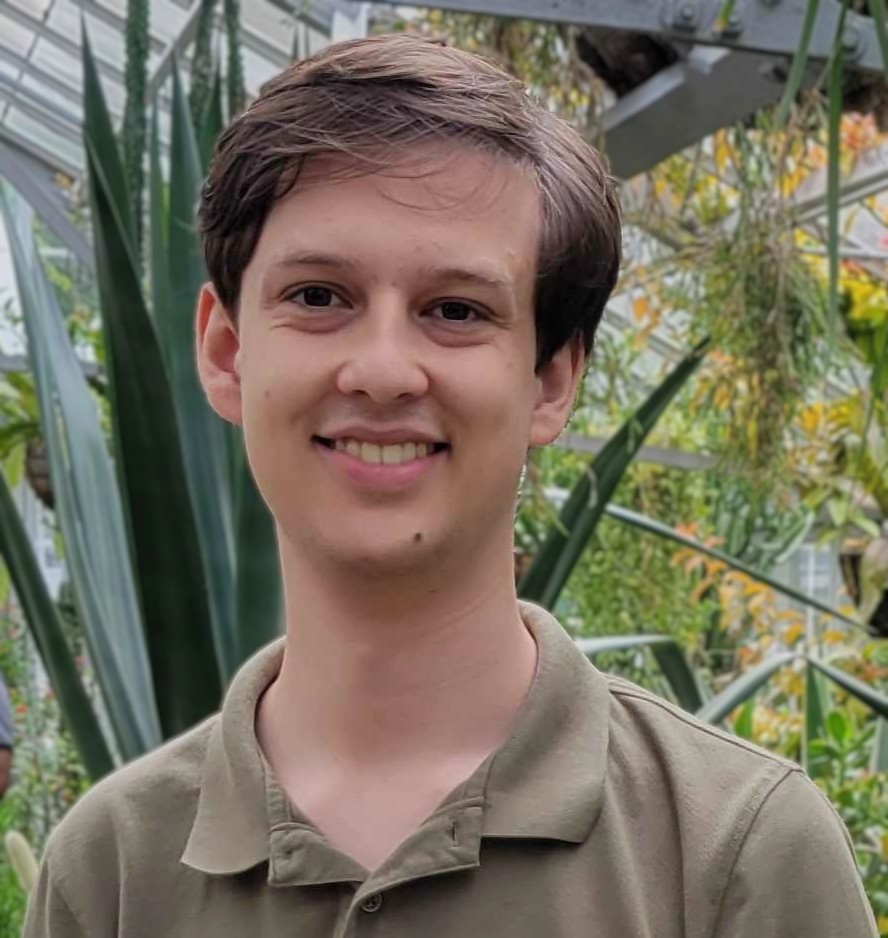
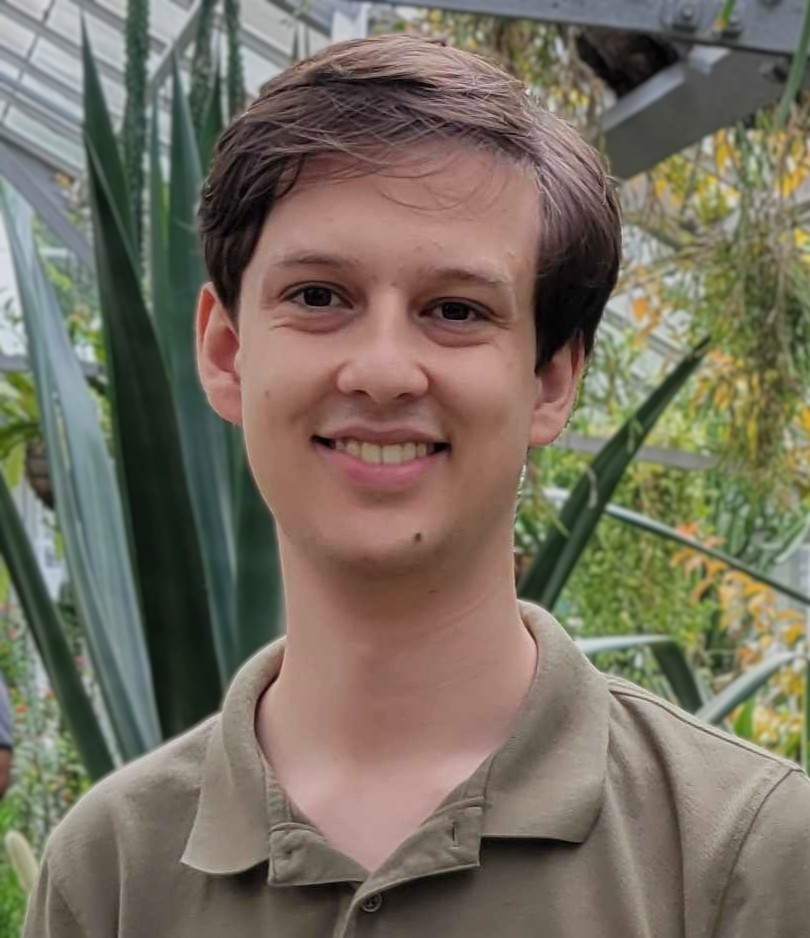
updated positioning of profile photo

diff --git a/styles.css b/styles.css
@@ -8,7 +8,7 @@ main {
 }
 
 img {
-    width: 12rem;
+    width: 10rem;
     border: 2px solid black;
     border-radius: 50%;
 }
